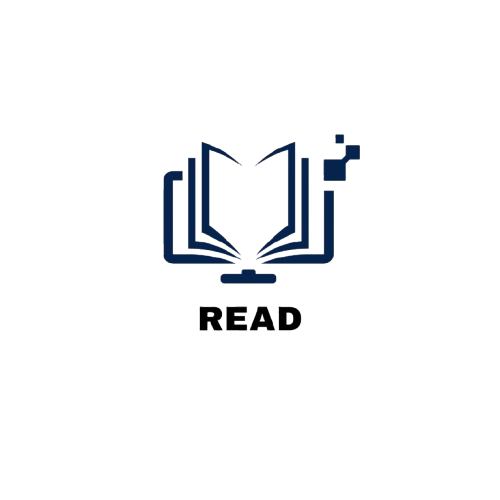
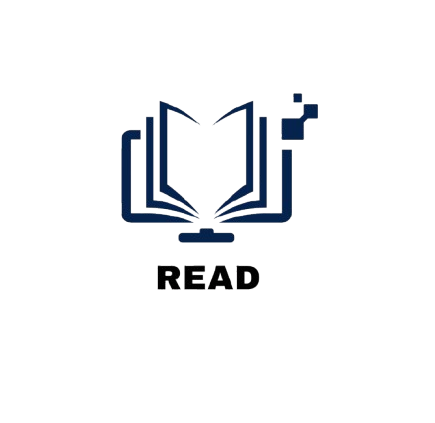
changed ui/ux on guest environment

Changed region(s): [[0.269, 0.2151, 0.7471, 0.5839], [0.3586, 0.6147, 0.6276, 0.7069], [0.4782, 0.2766, 0.508, 0.3073]]

diff --git a/frontend/src/components/Guest/GuestTestLibrary.jsx b/frontend/src/components/Guest/GuestTestLibrary.jsx
@@ -25,7 +25,7 @@ export default function GuestTestLibrary() {
           <motion.h1 
             initial={{ opacity: 0, y: -20 }}
             animate={{ opacity: 1, y: 0 }}
-            className="text-4xl md:text-5xl font-extrabold mb-4 bg-linear-to-r from-primary to-secondary bg-clip-text text-transparent pb-2"
+            className="text-4xl md:text-5xl font-extrabold mb-4 text-cta-btn pb-2"
           >
             Free Practice Mock Tests
           </motion.h1>
@@ -63,17 +63,17 @@ export default function GuestTestLibrary() {
                 className="group relative bg-base-100 border border-base-200/80 shadow-xl hover:shadow-2xl rounded-3xl overflow-hidden transition-all duration-300 flex flex-col"
               >
                 {/* Decorative top gradient bar */}
-                <div className={`h-1.5 w-full ${test.testType === 'speaking' ? 'bg-linear-to-r from-emerald-400 to-teal-500' : 'bg-linear-to-r from-sky-400 to-indigo-500'}`}></div>
+                <div className={`h-1.5 w-full ${test.testType === 'speaking' ? 'bg-cta-btn' : 'bg-primary'}`}></div>
                 
                 {/* Subtle Glow effect on hover */}
                 <div className={`absolute inset-0 opacity-0 group-hover:opacity-[0.03] transition-opacity duration-500 pointer-events-none ${test.testType === 'speaking' ? 'bg-emerald-500' : 'bg-blue-500'}`}></div>
 
                 <div className="p-8 grow flex flex-col relative z-10">
                   <div className="flex justify-between items-start mb-6">
-                    <div className={`p-4 rounded-2xl shadow-sm ${test.testType === 'speaking' ? 'bg-emerald-50 text-emerald-600 dark:bg-emerald-900/30 dark:text-emerald-400' : 'bg-blue-50 text-blue-600 dark:bg-blue-900/30 dark:text-blue-400'}`}>
+                    <div className={`p-4 rounded-2xl shadow-sm ${test.testType === 'speaking' ? 'bg-cta-btn text-white dark:bg-emerald-900/30 dark:text-emerald-400' : 'bg-primary text-white dark:bg-blue-900/30 dark:text-blue-400'}`}>
                       {test.testType === 'speaking' ? <FaMicrophone className="text-2xl" /> : <FaHeadphones className="text-2xl" />}
                     </div>
-                    <span className={`px-4 py-1.5 text-xs font-bold rounded-full uppercase tracking-widest ${test.testType === 'speaking' ? 'bg-emerald-100/50 text-emerald-700 dark:bg-emerald-900/50 dark:text-emerald-300' : 'bg-blue-100/50 text-blue-700 dark:bg-blue-900/50 dark:text-blue-300'}`}>
+                    <span className={`px-4 py-1.5 text-xs font-bold rounded-full uppercase tracking-widest ${test.testType === 'speaking' ? 'bg-cta-btn text-white dark:bg-emerald-900/50 dark:text-emerald-300' : 'bg-primary text-white dark:bg-blue-900/50 dark:text-blue-300'}`}>
                       {test.testType}
                     </span>
                   </div>
@@ -88,7 +88,7 @@ export default function GuestTestLibrary() {
                   <div className="mt-auto">
                     <Link 
                       to={`/free-practice/tests/${test._id}`} 
-                      className={`w-full btn border-none rounded-xl font-bold shadow-md hover:shadow-lg transition-all flex items-center justify-center gap-3 relative overflow-hidden text-white ${test.testType === 'speaking' ? 'bg-emerald-500 hover:bg-emerald-600' : 'bg-indigo-500 hover:bg-indigo-600'}`}
+                      className={`w-full btn border-none rounded-xl font-bold shadow-md hover:shadow-lg transition-all flex items-center justify-center gap-3 relative overflow-hidden text-white ${test.testType === 'speaking' ? 'bg-cta-btn' : 'bg-primary'}`}
                     >
                       <span className="relative z-10">Start Test</span>
                       <FaArrowRight className="relative z-10 group-hover:translate-x-1.5 transition-transform duration-300" />

diff --git a/frontend/src/components/Home/Hero2.jsx b/frontend/src/components/Home/Hero2.jsx
@@ -27,7 +27,7 @@ const Hero2 = () => {
             initial={{ opacity: 0, y: 20 }}
             animate={{ opacity: 1, y: 0 }}
             transition={{ duration: 0.6, delay: 0.1 }}
-            className="text-3xl sm:text-4xl md:text-5xl lg:text-6xl font-extrabold leading-tight tracking-tight text-gray-900"
+            className="text-3xl sm:text-4xl md:text-5xl lg:text-6xl font-extrabold leading-[100%] tracking-normal text-gray-900"
           >
             YOUR REAL IELTS EXPERIENCE <br className="hidden lg:block"/>
             <span className="text-gray-900">STARTS HERE .</span>